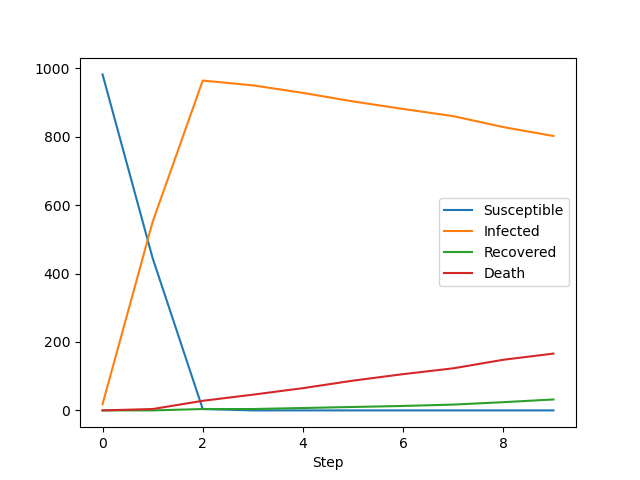
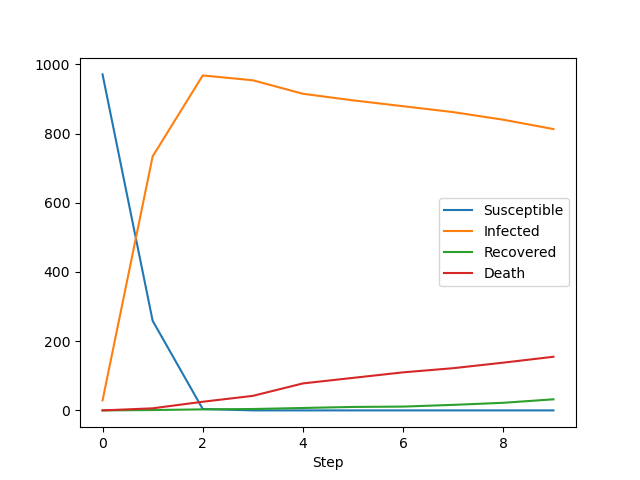
Update of the DataCollector and improvement of the Server's interface

diff --git a/examples/Aran Covid/BCNCovid2020.py b/examples/Aran Covid/BCNCovid2020.py
@@ -41,7 +41,7 @@ class State(IntEnum):
   SUSC = 0
   INF = 1
   REC = 2
-  DEATH = 3
+  DEAD = 3
 
 class BasicHuman(Agent):
   def __init__(self, unique_id, model):
@@ -65,10 +65,14 @@ class BasicHuman(Agent):
       drate = self.model.virus.death_rate
       alive = np.random.choice([0, 1], p=[drate, 1 - drate])
       if alive == 0:
-        self.state = State.DEATH
+        self.model.collector_counts["INF"] -= 1  # Adjust initial counts
+        self.model.collector_counts["DEAD"] += 1
+        self.state = State.DEAD
         #self.model.schedule.remove(self)
       t = self.model.schedule.time - self.infection_time
       if t >= self.recovery_time:
+        self.model.collector_counts["INF"] -= 1  # Adjust initial counts
+        self.model.collector_counts["REC"] += 1
         self.state = State.REC
 
   def contact(self):
@@ -83,10 +87,23 @@ class BasicHuman(Agent):
           other.infection_time = self.model.schedule.time
           other.recovery_time = self.model.get_recovery_time()
 
+  def update_stats(self):
+    if self.state == State.INF:
+      self.model.collector_counts['INF'] += 1
+    if self.state == State.SUSC:
+      self.model.collector_counts['SUSC'] += 1
+    if self.state == State.REC:
+      self.model.collector_counts['REC'] += 1
+    if self.state == State.DEAD:
+      self.model.collector_counts['DEAD'] += 1
+
+
   def step(self):
     self.status()
     self.move()
     self.contact()
+    self.update_stats()
+
 
 class BCNCovid2020(Model):
 
@@ -101,6 +118,15 @@ class BCNCovid2020(Model):
     self.initial_outbreak_size = 100
     self.virus = VirusCovid()
 
+    #variables for data collector
+    self.collector_counts = None
+    self.reset_counts()
+    self.collector_counts["SUSC"] = N
+    #self.datacollector = DataCollector(agent_reporters={"State": "state"})
+    self.datacollector = DataCollector(
+      {"INF": get_infected_count, "SUSC": get_susceptible_count, "REC": get_recovered_count, "DEAD": get_dead_count, }
+    )
+
     _log.info("Loading shapefiles")
 
     #self.loadShapefiles() for GEOSPACEPANDAS
@@ -109,7 +135,8 @@ class BCNCovid2020(Model):
     #self.createAgents(N)
     self.createBasicAgents(N)
 
-    self.datacollector = DataCollector(agent_reporters={"State": "state"})
+    self.datacollector.collect(self)
+
 
   def createBasicAgents(self, N):
     for i in range(N):
@@ -123,6 +150,8 @@ class BCNCovid2020(Model):
       infected = np.random.choice([0, 1], p=[0.98, 0.02])
       if infected == 1:
         a.state = State.INF
+        self.collector_counts["SUSC"] -= 1
+        self.collector_counts["INF"] += 1  # Adjust initial counts
         a.recovery_time = self.get_recovery_time()
 
   def get_recovery_time(self):
@@ -132,11 +161,14 @@ class BCNCovid2020(Model):
     if self._xs["bbox"].contains(loc):
       self.grid.update_shape(agent, loc)
 
+  def reset_counts(self):
+    self.collector_counts = {"SUSC": 0, "INF": 0, "REC": 0, "DEAD": 0, }
+
   def create_table_stats(self):
     """pivot the model dataframe to get states count at each step"""
     agent_state = self.datacollector.get_agent_vars_dataframe()
     X = pd.pivot_table(agent_state.reset_index(), index='Step', columns='State', aggfunc=np.size, fill_value=0)
-    labels = ['Susceptible', 'Infected', 'Recovered', 'Death']
+    labels = ['Susceptible', 'Infected', 'Recovered', 'Dead']
     X.columns = labels[:len(X.columns)]
     X.to_csv('sir_stats.csv', index=False)
     return X
@@ -198,14 +230,31 @@ class BCNCovid2020(Model):
     self._roads = [roads_1, roads_2]
 
   def step(self):
-    self.datacollector.collect(self)
+    self.reset_counts()
     self.schedule.step()
+    self.datacollector.collect(self)
 
   def run_model(self, n):
     for i in range(n):
       _log.info("Step %d of %d"%(i, n))
       self.step()
 
+
+# Functions needed for datacollector
+def get_infected_count(model):
+  return model.collector_counts["INF"]
+
+
+def get_susceptible_count(model):
+  return model.collector_counts["SUSC"]
+
+
+def get_recovered_count(model):
+  return model.collector_counts["REC"]
+
+
+def get_dead_count(model):
+  return model.collector_counts["DEAD"]
     
     
 

diff --git a/examples/Aran Covid/BCNCovid2020_Viz.py b/examples/Aran Covid/BCNCovid2020_Viz.py
@@ -1,7 +1,15 @@
 from BCNCovid2020 import BasicHuman, BCNCovid2020, State
 
-from mesa.visualization.modules import CanvasGrid
+from mesa.visualization.modules import CanvasGrid, ChartModule, TextElement
+from mesa.visualization.UserParam import UserSettableParameter
 from mesa.visualization.ModularVisualization import ModularServer
+
+
+# {"N":30, "basemap":"Barcelona, Spain", "width":10, "height":10}
+model_params = {
+    "N": UserSettableParameter("slider", "Population size", 30, 10, 100, 10),
+    "basemap": "Barcelona, Spain", "width": 10, "height": 10,
+}
 
 
 def agent_portrayal(agent):
@@ -17,22 +25,29 @@ def agent_portrayal(agent):
         portrayal["Layer"] = 1
         portrayal["r"] = 0.4
     elif agent.state == State.REC:
-        portrayal["Color"] = "red"
+        portrayal["Color"] = "blue"
         portrayal["Layer"] = 2
         portrayal["r"] = 0.3
-    elif agent.state == State.DEATH:
+    elif agent.state == State.DEAD:
         portrayal["Color"] = "gray"
         portrayal["Layer"] = 3
         portrayal["r"] = 0.2
     return portrayal
 
+
 grid = CanvasGrid(agent_portrayal, 10, 10, 500, 500)
-
-
+infected_chart = ChartModule(
+    [
+        {"Label": "INF", "Color": "Red"},
+        {"Label": "SUSC", "Color": "Green"},
+        {"Label": "REC", "Color": "Blue"},
+        {"Label": "DEAD", "Color": "Black"},
+    ]
+)
 
 server = ModularServer(BCNCovid2020,
-                       [grid],
-                       "Covid Model",
-                       {"N":30, "basemap":"Barcelona, Spain", "width":10, "height":10})
-server.port = 8521 # The default
+                       [grid, infected_chart],
+                       "Covid Model", model_params)
+
+server.port = 8521  # The default
 server.launch()

diff --git a/examples/Aran Covid/run.py b/examples/Aran Covid/run.py
@@ -23,7 +23,7 @@ def main(args):
   #model.plotAll() for geospacepandas
   #plt.savefig("start.png")
   model.run_model(args.steps)
-  model.plot_results()
+  #model.plot_results()
 
   #model.plotAll()
   #plt.savefig("end.png")
